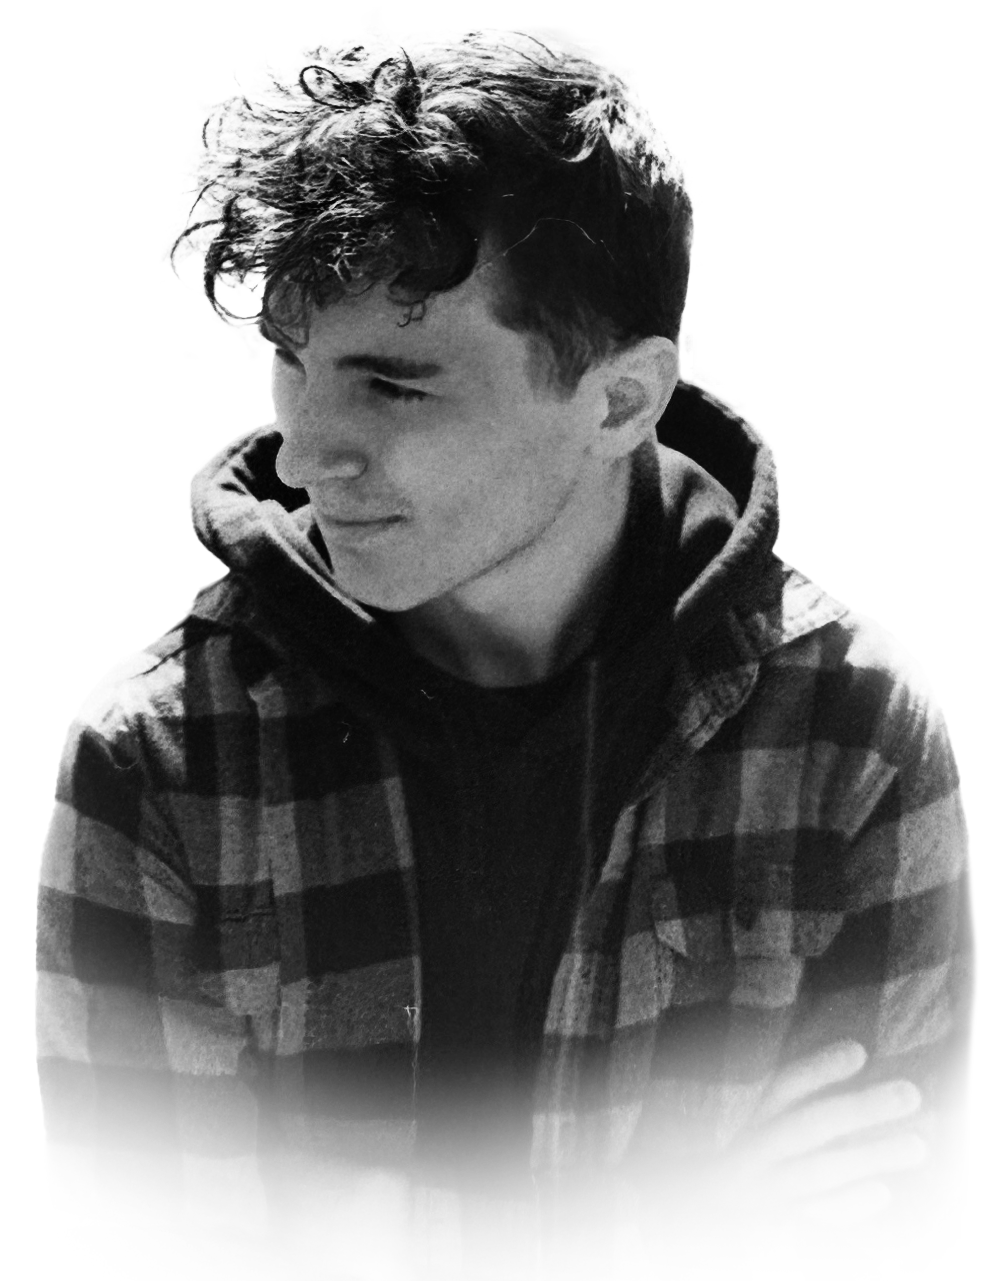
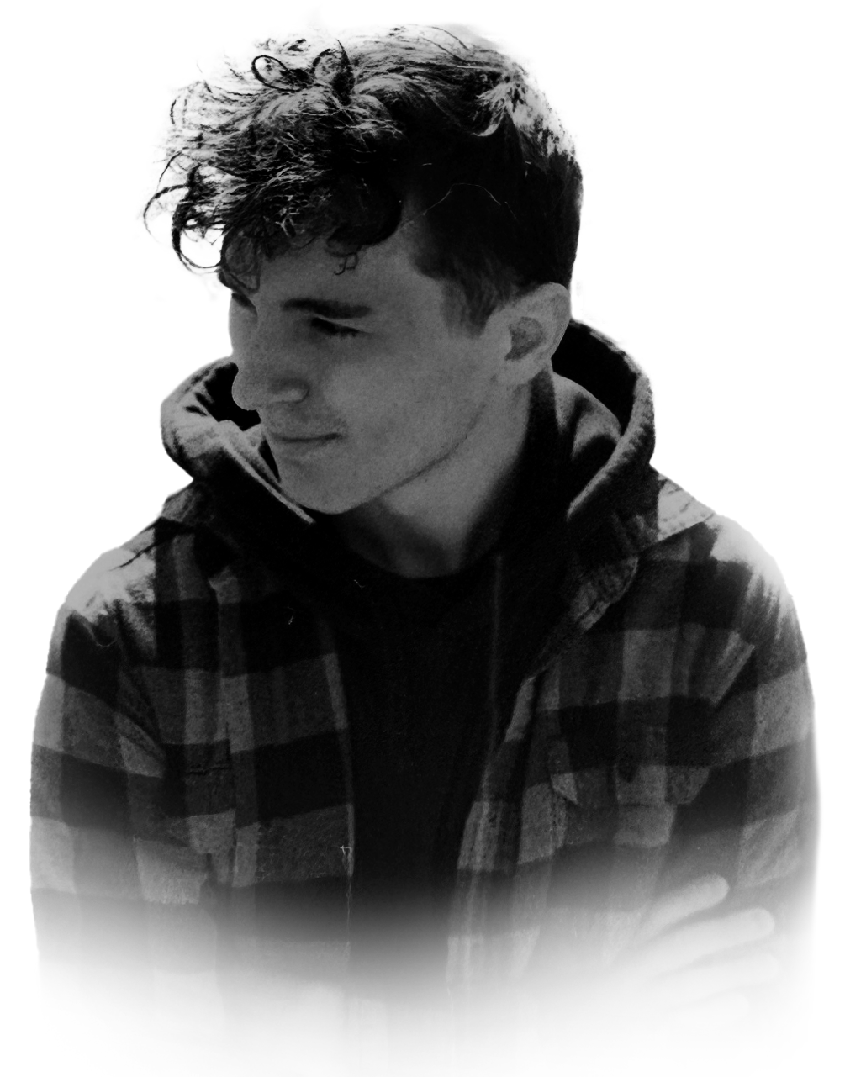
sorta fixed the ducktape ass fix I had for the overlapping images for the face

diff --git a/src/components/face.css b/src/components/face.css
@@ -1,9 +1,12 @@
 .faceContainer {
     display: flex;
+    position: relative;
     justify-content: center;
     align-items: flex-end;
     flex-direction: column;
-    transform: translateY(45%);
+    user-select: none;
+    -webkit-user-select: none;
+    transform: translateY(25%);
     /* this is a ducktape fix */
 }
 
@@ -12,27 +15,45 @@
     border-radius: 5vh;
     border-radius: 5vh;
     z-index: 2;
+    -webkit-user-drag: none;
 }
 
 .faceImage {
-    transform: translateY(-100%);
+    position: absolute;
+    bottom: 5vh;
+    left: 0;
+    width: 100%;
+    height: 100%;
+    object-fit: cover;
     z-index: 3;
     filter: drop-shadow(0 2vh 2vh var(--background));
 }
 
 .faceBackground {
+    position: absolute;
+    bottom: 0;
+    left: 0;
+    width: 100%;
+    height: 100%;
+    object-fit: cover;
     -webkit-mask-image: linear-gradient(transparent, transparent, rgba(0, 0, 0, 0.25), rgba(0, 0, 0, 0.5), rgba(0, 0, 0, 1));
     mask-image: linear-gradient(transparent, transparent, rgba(0, 0, 0, 0.25), rgba(0, 0, 0, 0.5), rgba(0, 0, 0, 1));
-    transform: translateY(-200%);
     border-radius: 5vh;
     z-index: 2;
     opacity: 25%;
+    -webkit-user-drag: none;
 }
 
 .faceBackgroundBlur {
-    transform: translateY(calc(-300% + 4vh));
+    position: absolute;
+    bottom: 0;
+    left: 0;
+    width: 100%;
+    height: 100%;
+    object-fit: cover;
     border-radius: 5vh;
     z-index: 0;
     filter: blur(5vh);
     opacity: 0.025;
+    -webkit-user-drag: none;
 }

diff --git a/src/components/icon.css b/src/components/icon.css
@@ -1,3 +1,7 @@
+.logo.clickable img {
+    -webkit-user-drag: none;
+}
+
 .clickable {
     display: flex;
     justify-content: center;
